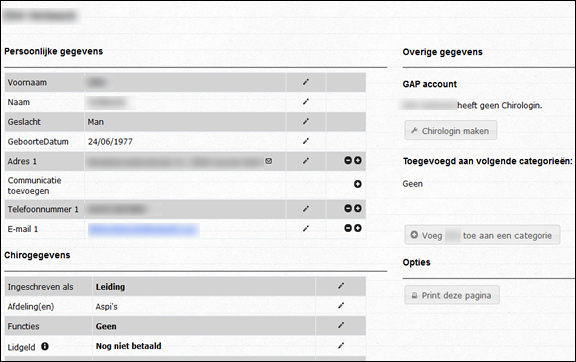
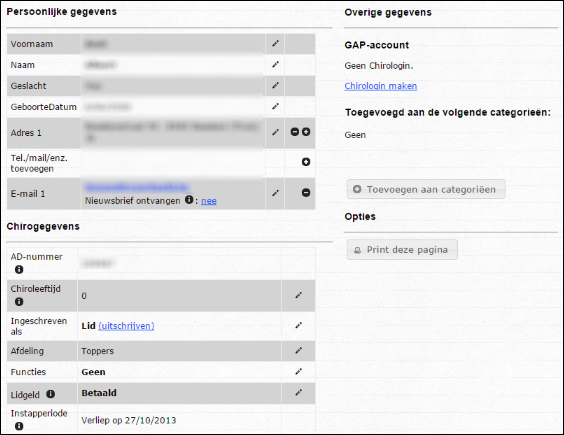
Refs #3000 Duidelijker label ipv 'Communicatievorm toevoegen',
en wijzigingen aan de handleiding die daarbij horen

diff --git a/Solution/Chiro.Gap.WebApp/Scripts/jquery-persoons-fiche.js b/Solution/Chiro.Gap.WebApp/Scripts/jquery-persoons-fiche.js
@@ -383,7 +383,7 @@ $(function () {
             {
                 waarde = $('#NieuweCommVorm_CommunicatieTypeID').val();
                 $('#extraInfoDialog').dialog({
-                    title: "Nieuwe communicatievorm",
+                    title: "Tel./mail/enz. toevoegen",
                     modal: true,
                     width: 550,
                     height: 530,
@@ -443,7 +443,7 @@ $(function () {
         $('#commDialog').dialog({
             modal: true,
             width: 510,
-            title: "Communicatievorm toevoegen",
+            title: "Tel./mail/enz. toevoegen",
             buttons: {
                 'Bewaren': function () {
                     gaVerder = true;

diff --git a/Solution/Chiro.Gap.WebApp/Controllers/PersonenController.cs b/Solution/Chiro.Gap.WebApp/Controllers/PersonenController.cs
@@ -1298,7 +1298,7 @@ namespace Chiro.Gap.WebApp.Controllers
             var types = ServiceHelper.CallService<IGelieerdePersonenService, IEnumerable<CommunicatieTypeInfo>>(l => l.CommunicatieTypesOphalen());
             var model = new NieuweCommVormModel(persoonDetail, types);
             BaseModelInit(model, groepID);
-            model.Titel = "Nieuwe communicatievorm toevoegen";
+            model.Titel = "Tel./mail/enz. toevoegen";
             return View("NieuweCommVorm", model);
         }
 
@@ -1351,7 +1351,7 @@ namespace Chiro.Gap.WebApp.Controllers
                 // info voor model herstellen
                 model.Aanvrager = ServiceHelper.CallService<IGelieerdePersonenService, PersoonDetail>(l => l.DetailOphalen(gelieerdePersoonID));
                 model.Types = ServiceHelper.CallService<IGelieerdePersonenService, IEnumerable<CommunicatieTypeInfo>>(l => l.CommunicatieTypesOphalen());
-                model.Titel = "Nieuwe communicatievorm toevoegen";
+                model.Titel = "Tel./mail/enz. toevoegen";
 
                 return View("NieuweCommVorm", model);
             }
@@ -1403,7 +1403,7 @@ namespace Chiro.Gap.WebApp.Controllers
             var commv = ServiceHelper.CallService<IGelieerdePersonenService, CommunicatieDetail>(l => l.CommunicatieVormOphalen(commvormID));
             var model = new CommVormModel(persoonDetail, commv);
             BaseModelInit(model, groepID);
-            model.Titel = "Communicatievorm bewerken";
+            model.Titel = "Tel./mail/enz. bewerken";
             return View("CommVormBewerken", model);
         } 
 
@@ -1454,7 +1454,7 @@ namespace Chiro.Gap.WebApp.Controllers
 
                 model.Aanvrager = ServiceHelper.CallService<IGelieerdePersonenService, PersoonDetail>(l => l.DetailOphalen(gelieerdePersoonID));
                 model.NieuweCommVorm = commVorm;
-                model.Titel = "Communicatievorm bewerken";
+                model.Titel = "Tel./mail/enz. bewerken";
 
                 return View("CommVormBewerken", model);
             }
